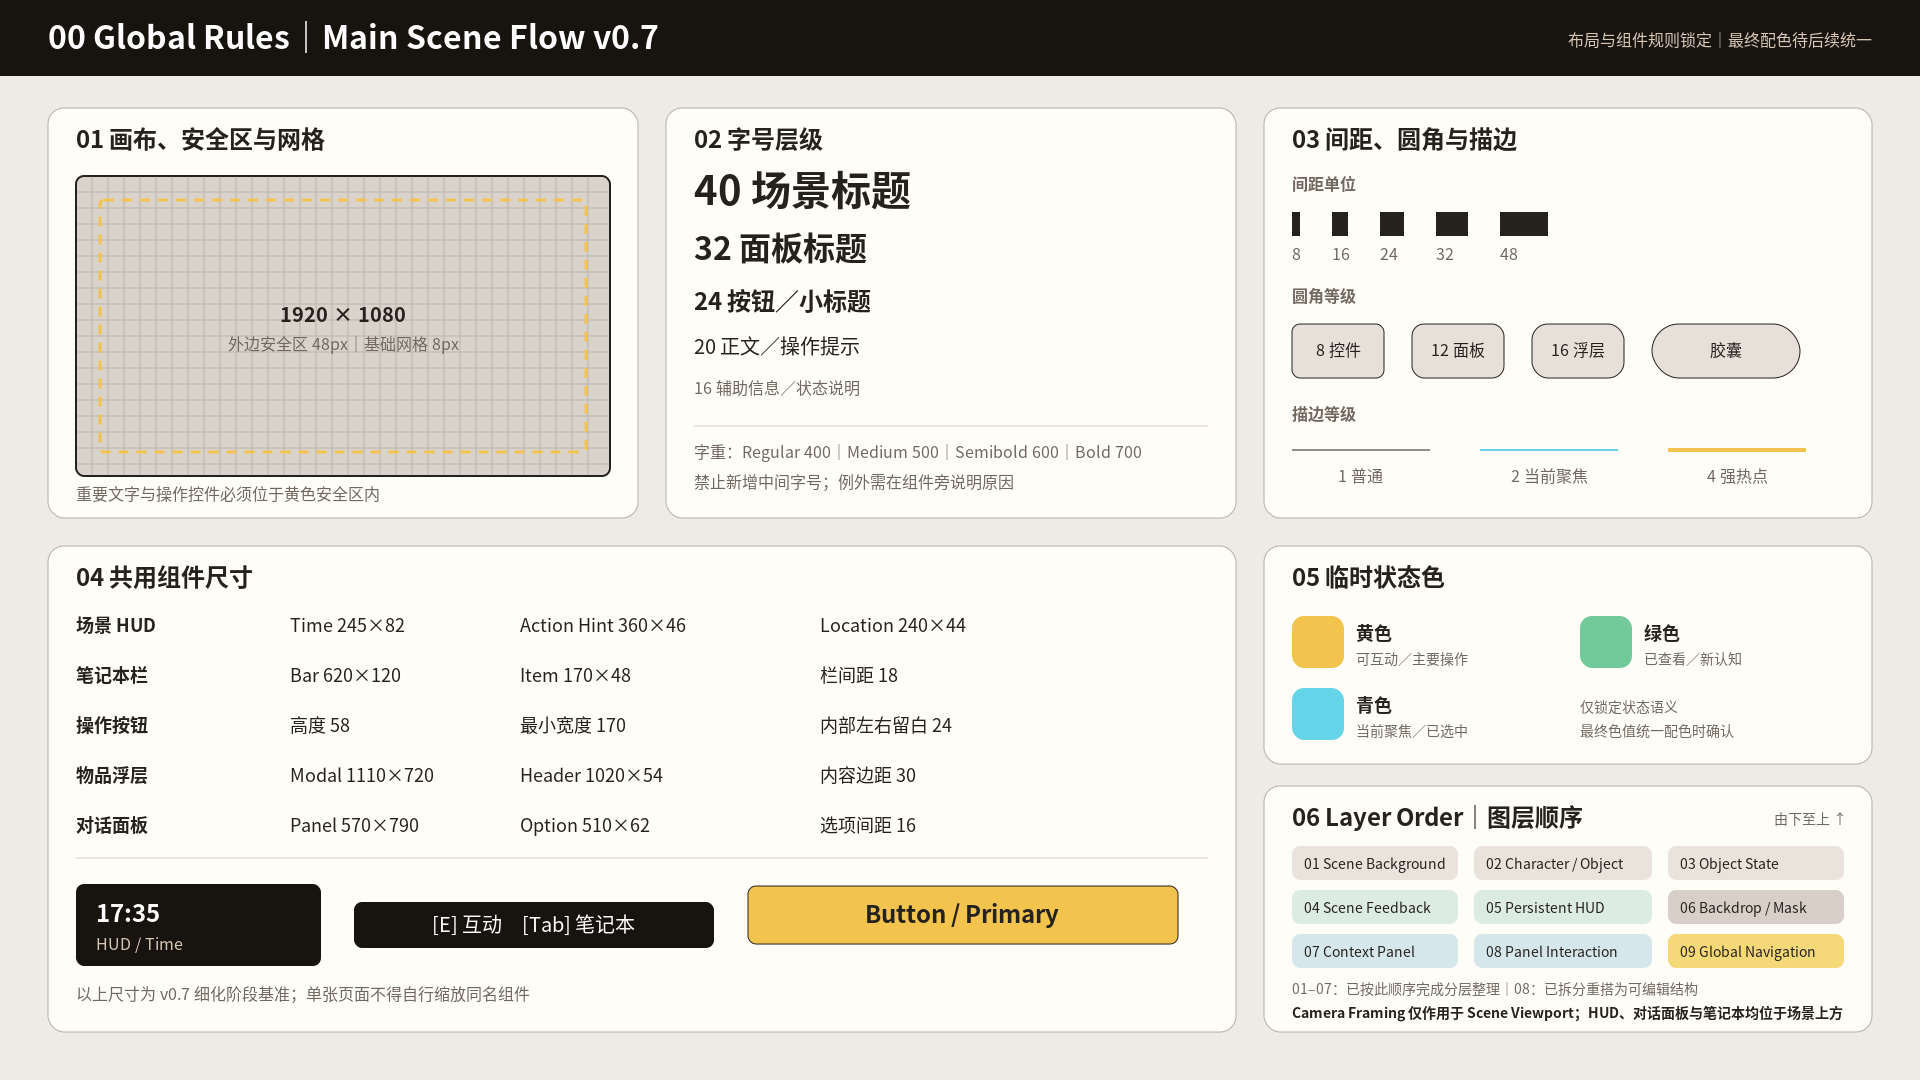
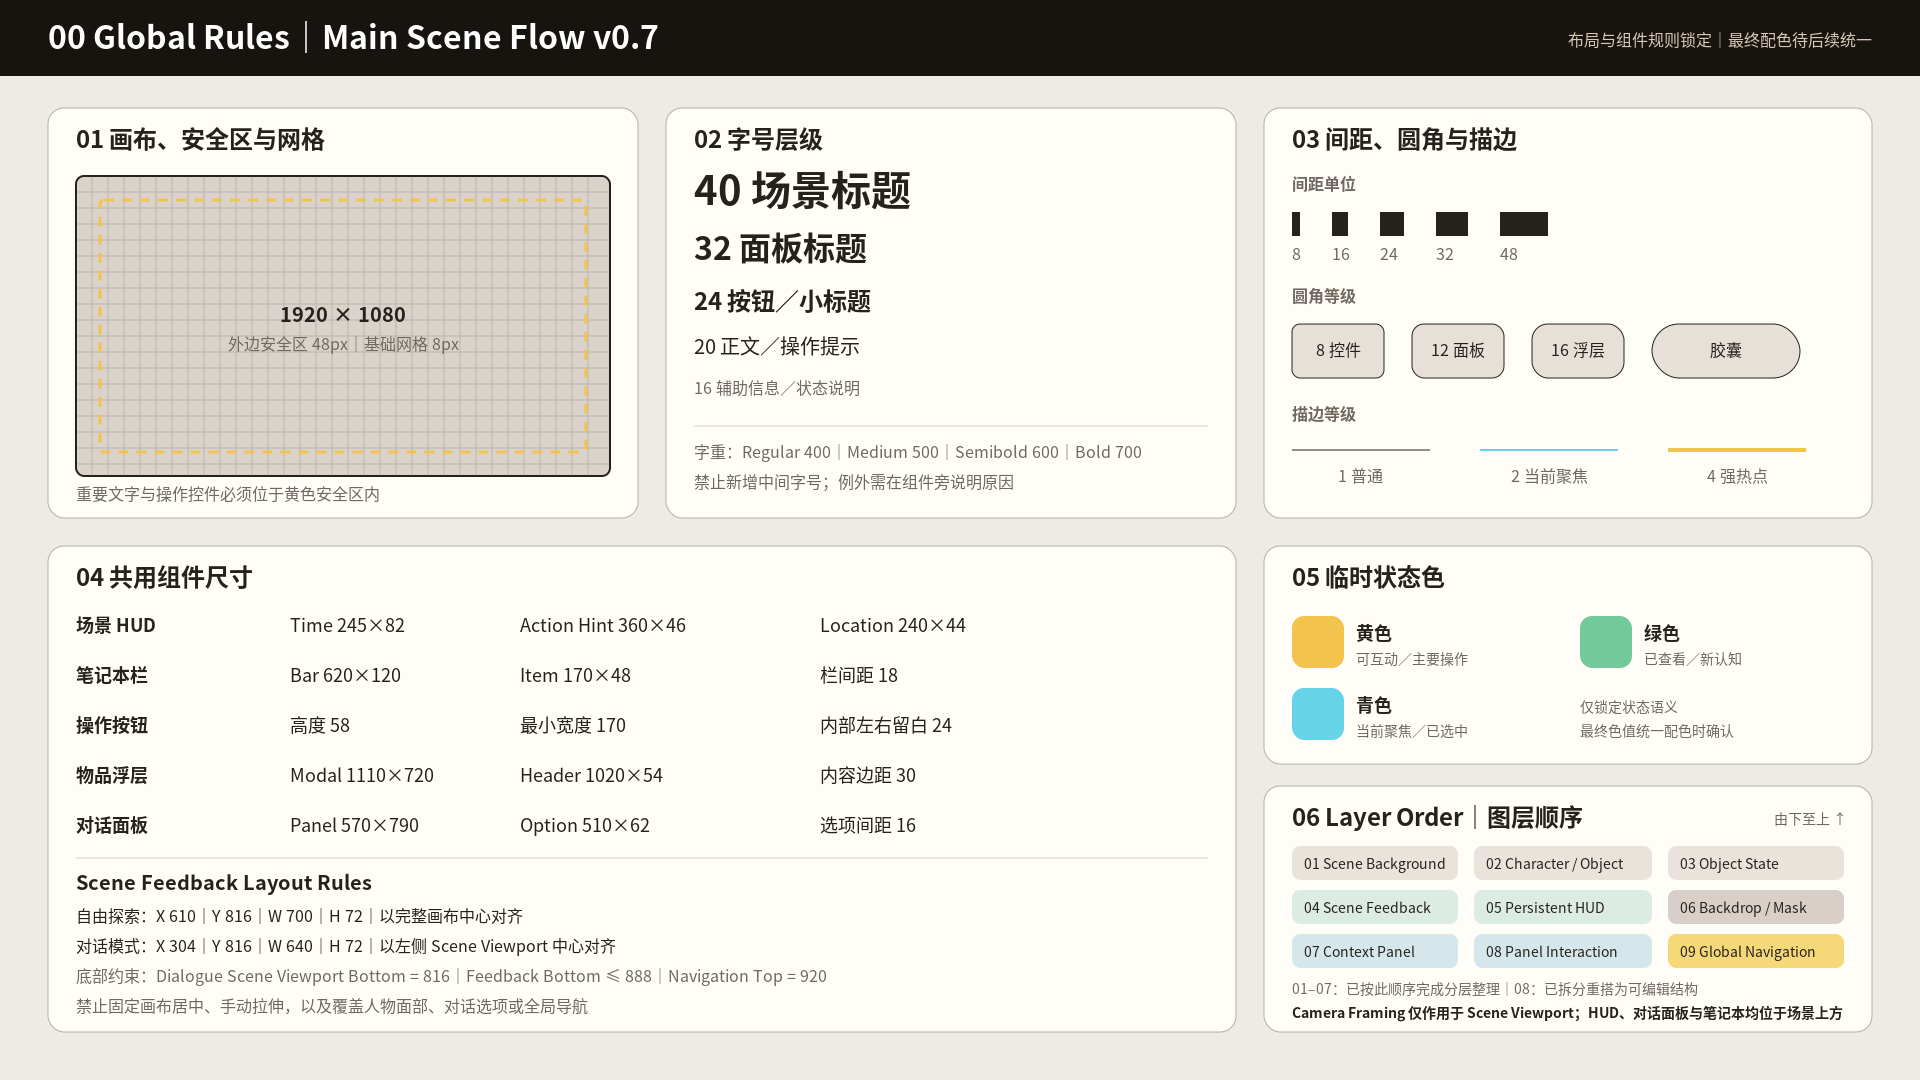
调整主场景 v0.7 反馈条布局规范

Changed region(s): [[0.0312, 0.7944, 0.625, 0.9472]]

diff --git a/docs/UI/main-scene/v0.7/global-rules.md b/docs/UI/main-scene/v0.7/global-rules.md
@@ -5,7 +5,7 @@
 - 状态：已锁定，作为 01–08 精修基准
 - 更新时间：2026-09-11
 - 负责人：任俊茹
-- Figma 规范板：[00_Global_Rules](https://www.figma.com/design/hSygViz2j9LkQ419P8kHIV/Main-Scene---Wireframe-v0.6?node-id=143-921&p=f)
+- Figma 规范板：[00_Global_Rules](https://www.figma.com/design/hSygViz2j9LkQ419P8kHIV/Main-Scene---Wireframe-v0.6?node-id=143-1055&p=f)
 - 规范板预览：[v0.7-global-rules.png](../../../../assets/wireframe/main-scene/v0.7-global-rules.png)
 
 ## 1. 画布、安全区与网格
@@ -54,6 +54,22 @@
 | Dialogue / Option | 510 × 62px，选项间距 16px |
 
 单张页面不得自行缩放同名组件；需要变化时应先更新全局规范。
+
+### 4.1 Scene Feedback Layout Rules
+
+| 状态 | X | Y | W | H | 对齐基准 |
+|---|---:|---:|---:|---:|---|
+| 07 自由探索 / After Clue | 610 | 816 | 700 | 72 | 完整画布中心 |
+| 08 对话模式 | 304 | 816 | 640 | 72 | 左侧 `Scene Viewport` 中心 |
+
+约束规则：
+
+- 对话模式下，`Scene Viewport` 的可见底边固定为 `Y=816`；Feedback 从该边界开始，不再覆盖场景人物。
+- Feedback 底边不得低于 `Y=888`。
+- `Global Navigation` 顶边为 `Y=920`，两者至少保留 `32px` 垂直净空。
+- 无侧边面板时以完整画布中心对齐；打开对话面板时改以左侧 `Scene Viewport` 中心对齐。
+- 禁止始终使用 1920px 画布中心、手动拉伸 Feedback，或覆盖人物面部、对话选项及全局导航。
+- 普通场景最大宽度为 `700px`；对话场景最大宽度为 `640px`。
 
 ## 5. 临时状态色
 

diff --git a/changelog.md b/changelog.md
@@ -15,11 +15,14 @@
 - 按 Layer Order 将 01–07 重构为可编辑分层 Frame
 - 将 08 拆分为独立 Scene Viewport、Persistent HUD、Scene Feedback、Dialogue Panel 和 Global Navigation
 - 保留 08 既定人物 Camera Framing，使场景裁切仅作用于 Scene Viewport
+- 新增 Scene Feedback Layout Rules：07 按完整画布居中，08 按左侧 Scene Viewport 居中，并统一 32px 底部净空
+- 将 08 Scene Viewport 可见底边收至 `Y=816`，为反馈条建立独立信息带
 - 更新八状态总览图、v0.7 设计说明、修改清单和 README 索引
 
 ### 修复
 
 - 修复 08 左侧场景图覆盖顶部标题、时间、操作提示和地点 HUD 的问题
+- 修复 07 Scene Feedback 与笔记本栏距离过近，以及 08 Feedback 跨入场景与对话区域的问题
 
 ## 主场景 v0.7 状态线框完成 — 2026-09-10
 

diff --git a/docs/UI/main-scene/v0.7.md b/docs/UI/main-scene/v0.7.md
@@ -77,6 +77,8 @@
 - 物品界面使用居中浮层，背景保留主场景关系但降低操作优先级。
 - 黄色用于可交互／主要操作，青色用于当前聚焦，绿色用于已查看／已理解。
 - “新认知”反馈位于画面下方中央，保持轻量、内心化，不采用写实证物风格。
+- 07 的 Scene Feedback 使用 `X610 / Y816 / W700 / H72`，以完整画布中心对齐；与右下角 Global Navigation 保持至少 `32px` 净空。
+- 08 的 Scene Feedback 使用 `X304 / Y816 / W640 / H72`，以左侧 Scene Viewport 中心对齐；对话状态 Scene Viewport 的可见底边固定为 `Y816`，反馈条不覆盖人物或延伸至右侧对话面板。
 
 ### 6.1 08 正式图层树
 
